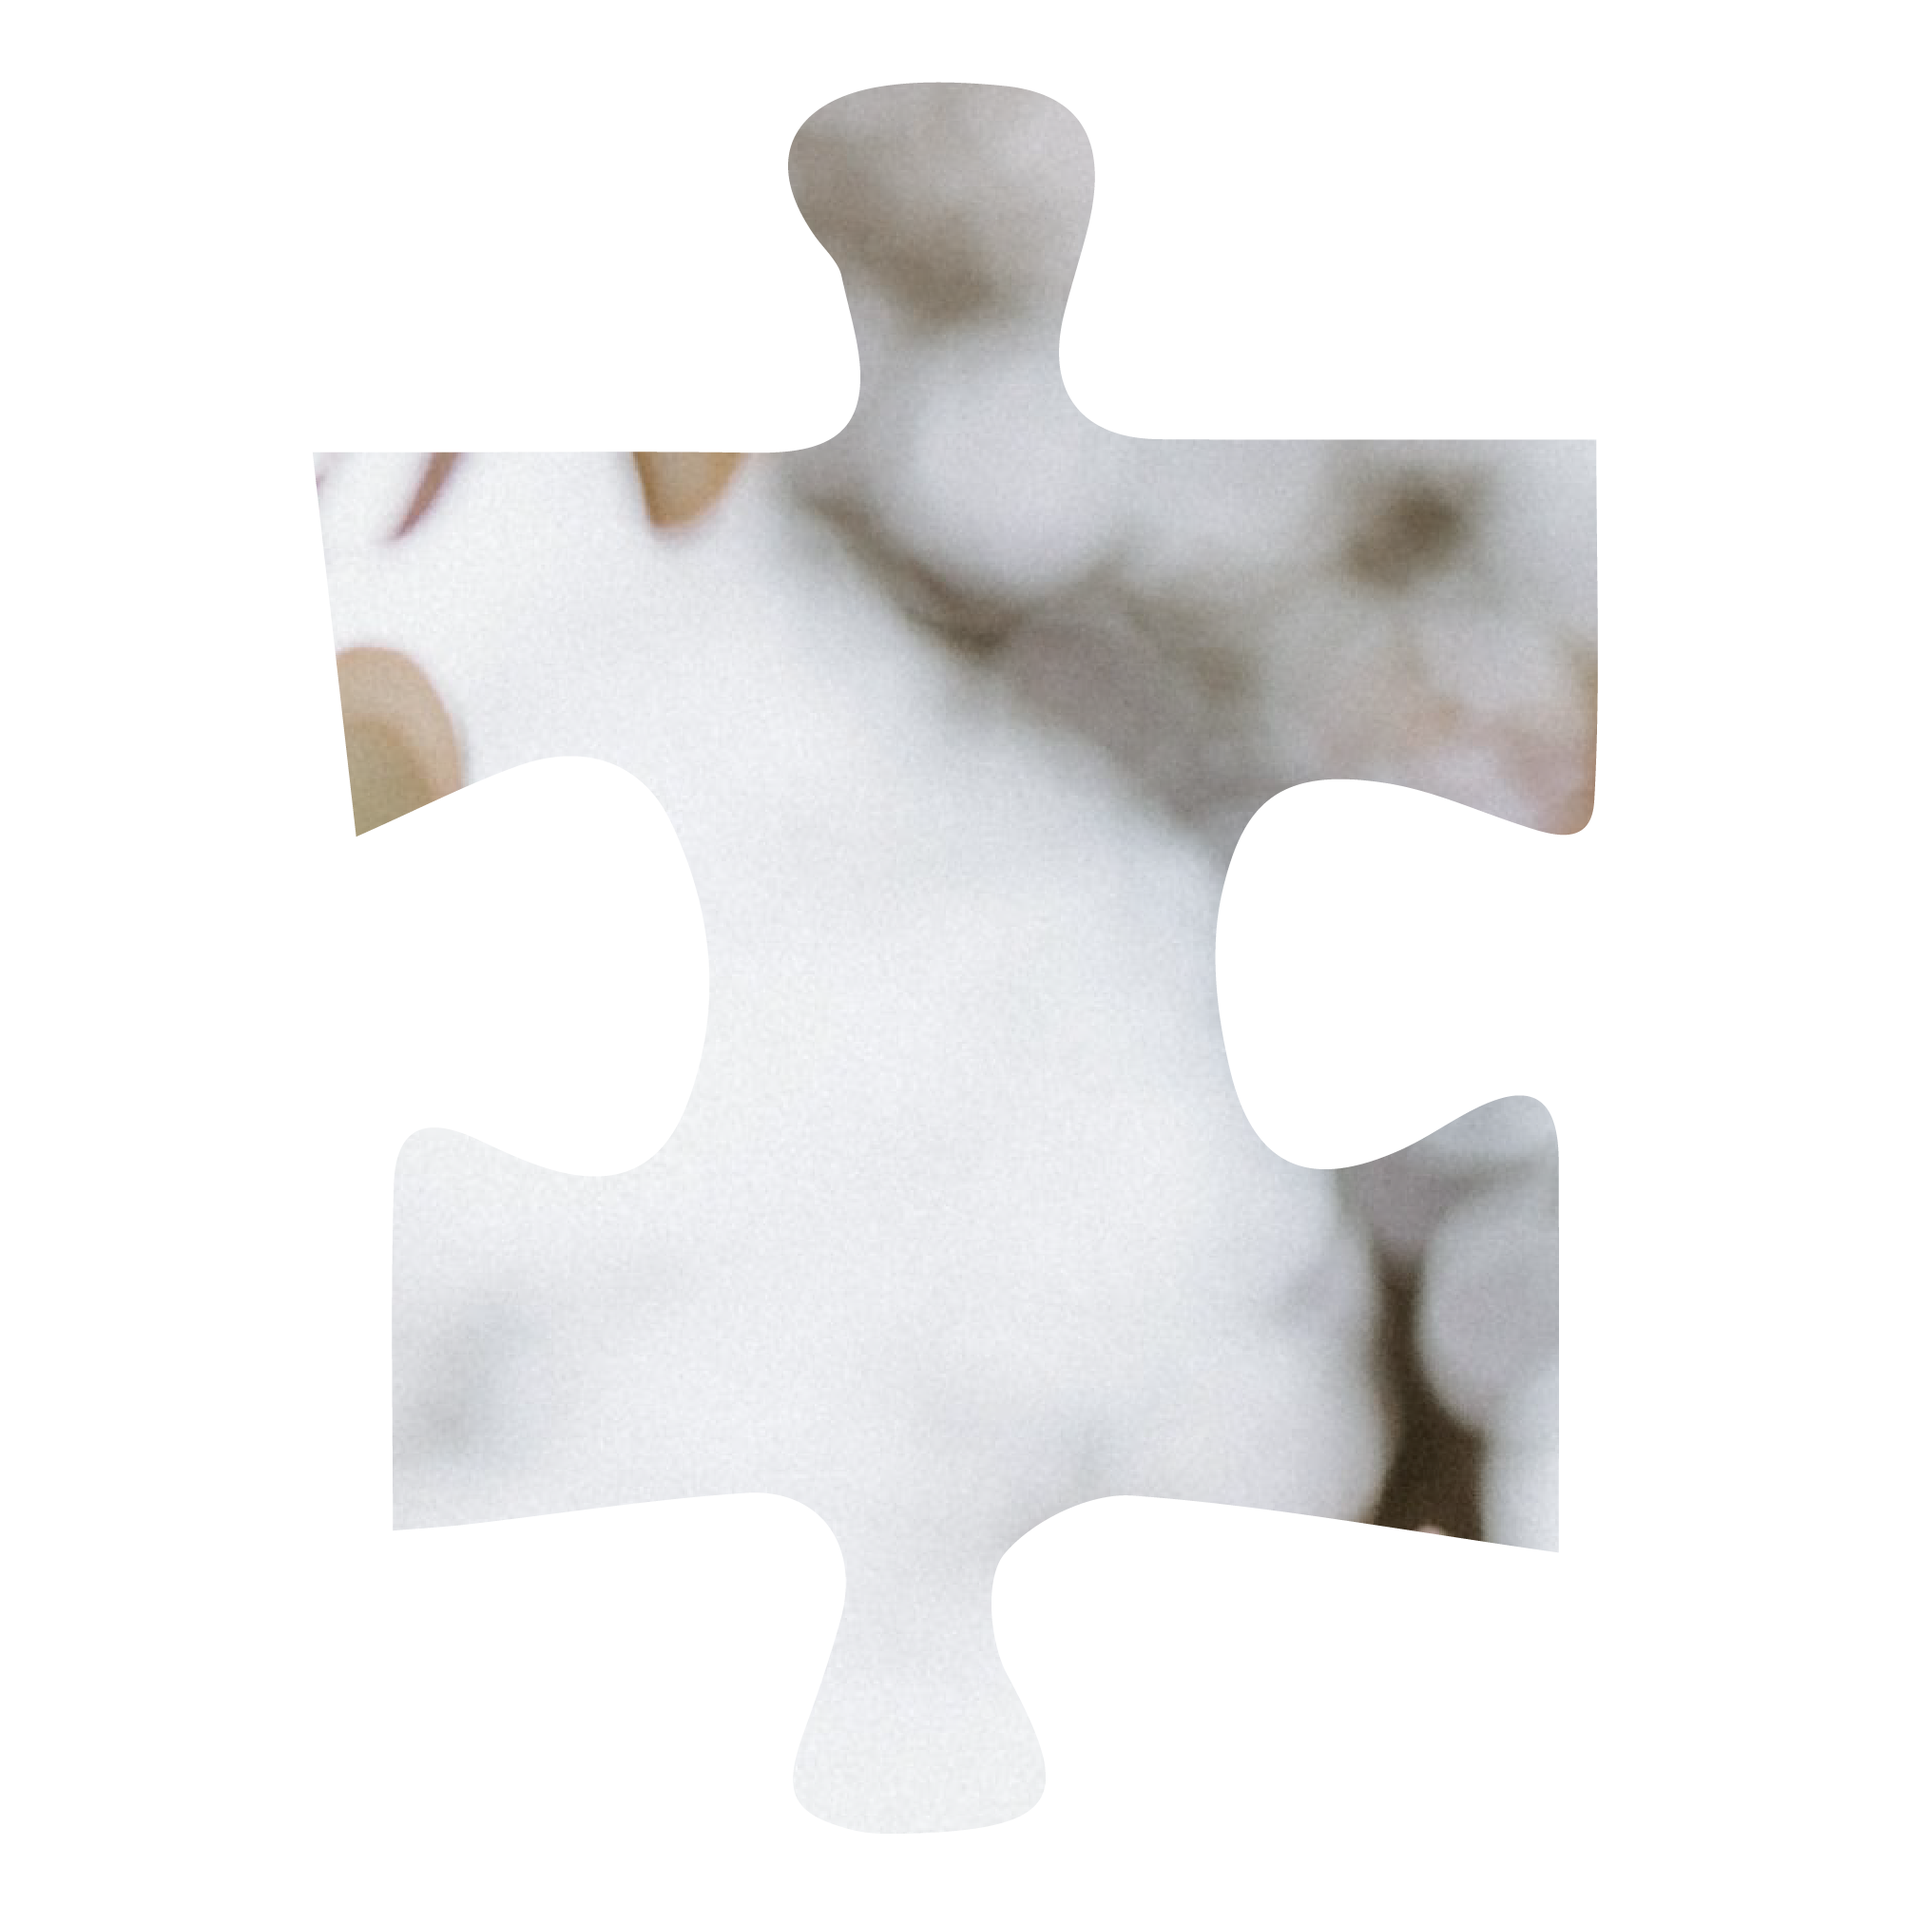
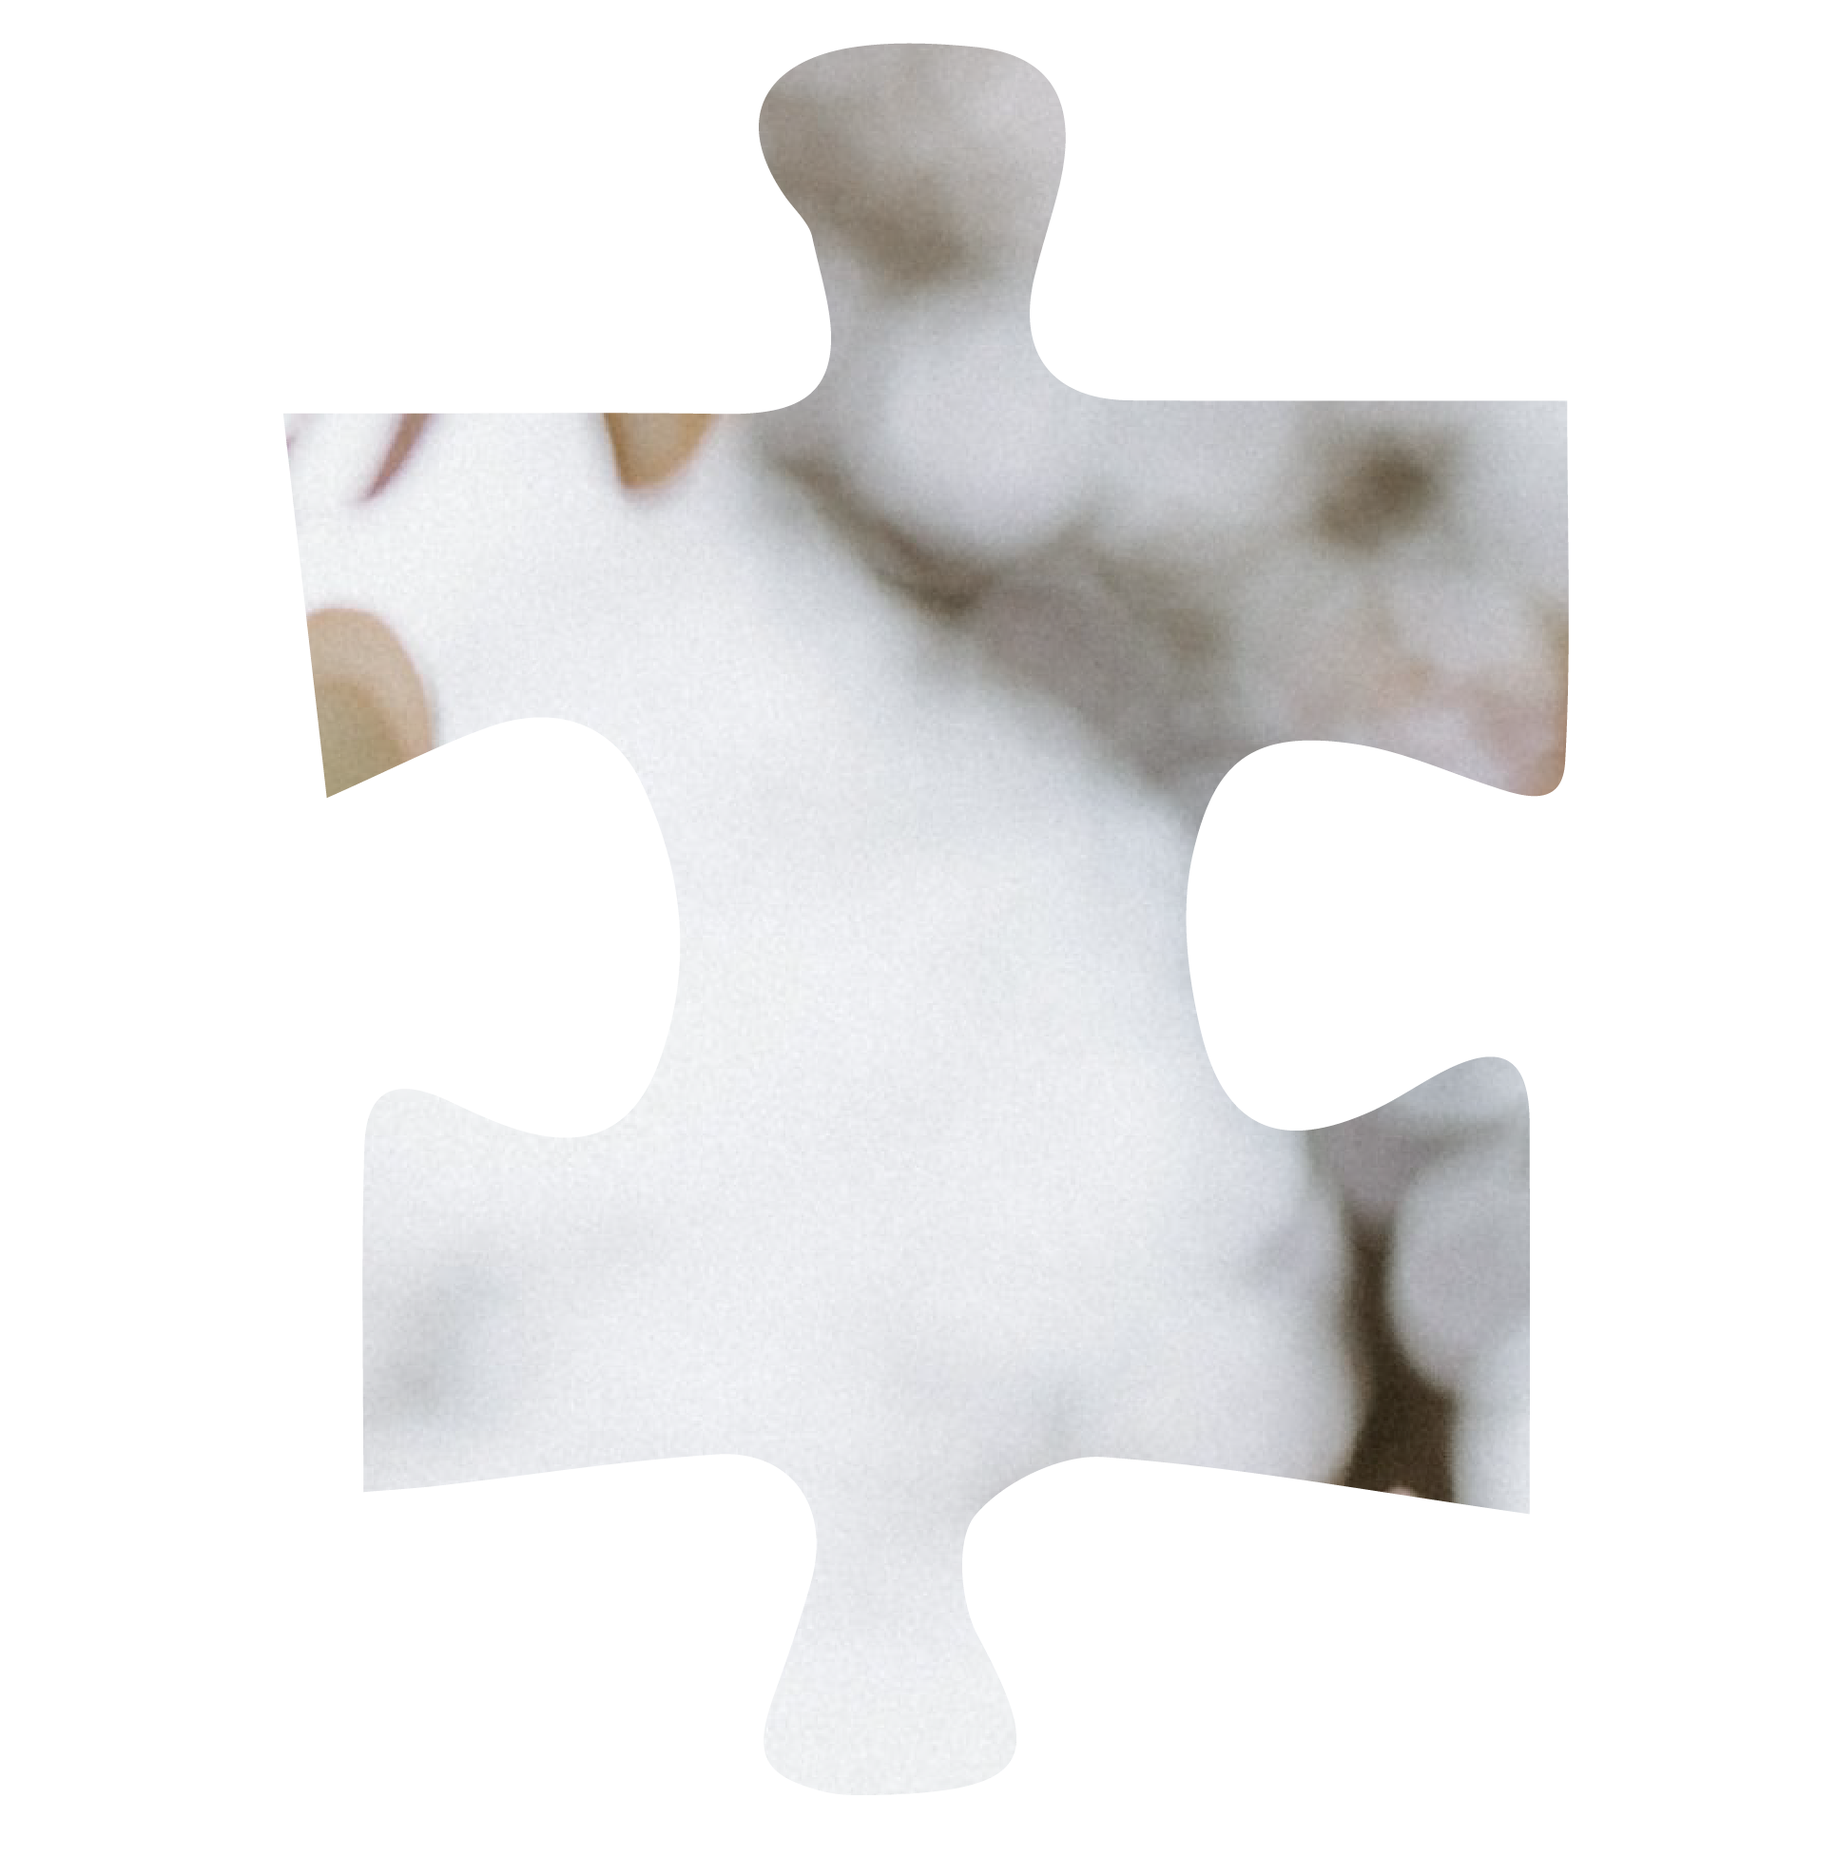
P3: Made the puzzle pieces fill their spot + Defined pieces and spots ids + made the puzzle appears, once all the pieces were dropped to the puzzle board

diff --git a/Projects/project-3/js/script.js b/Projects/project-3/js/script.js
@@ -70,8 +70,8 @@ function pieces(data) {
     li = $('<li></li>').addClass(`slide${i}`).addClass("slideC").appendTo('.content-slider');
     let imgAddress = data.puzzles.firstPuzzle.puzzlePieces[i];
     puzzlePiece = $('<img>').addClass(`piece${i}Img`).css({
-      "width": "8vw",
-      "padding": "8px"
+      "width": "6vw",
+      "padding": "14px"
     }).attr('src', `${imgAddress}`).appendTo(`.slide${i}`);
 
     // Makes the piece draggable
@@ -112,7 +112,7 @@ function spotsToPositionPieces(data) {
         src: `${image}`
       }).css({
         "width": "100%",
-        "opacity": "0.1"
+        "opacity": "0"
       }).appendTo(`#spotToPosition${i}`);
 
       // Makes the spot droppable
@@ -132,9 +132,6 @@ function spotsToPositionPieces(data) {
 function onDrop(event, ui) {
   // If the spot has not been already filled...
   if (!($(this).hasClass("dropped"))) {
-    // Gets the spot id
-    let itemId = $(this).attr("id");
-    console.log(itemId);
 
     // Adds "dropped" class so that this spot can't be filled again
     $(this).addClass("dropped");
@@ -148,23 +145,22 @@ function onDrop(event, ui) {
       piecesInSlide.splice(indexToRemove, 1);
       // SABINE EDIT END.
 
-      // If the spot id is single digit, takes only the last charater of the id
-      // Else, takes the last two character
-      let spotId;
-      if (itemId.length < 16) {
-        spotId = itemId.charAt(itemId.length - 1);
-      } else if (itemId.length > 15) {
-        spotId = itemId.substring(itemId.length - 2, itemId.length);
-      }
+
+      // Gets the spot id, Gets the piece first class
+      // Finds the digit embeded in the spot and the piece + assigns them to variables
+      let itemId = $(this).attr("id");
+      let setSpotId = findSpotId(itemId);
+      let droppedPieceFirstClass = $(ui.draggable[0]).attr("class").split(' ')[0];
+      let setPieceId = findPieceId(droppedPieceFirstClass);
 
       // SABINE EDITS START:
       // Makes a copy ..
       // Removes the other ...
-      let droppedOne = $('<img>').addClass(`droppedPiece${spotId}`).css({
-        "width": "100%"
-      }).attr('src', ui.draggable[0].src).appendTo($(this));
-      console.log((ui.draggable[0]).src);
-      $(`.hidingLayer${spotId}`).remove();
+      let droppedOne = $('<img>').addClass(`droppedPiece${setSpotId}`).css({
+        "width": "100%",
+        "opacity": "0"
+      }).attr({id:`piece${setPieceId}Img`, src:`${ui.draggable[0].src}`}).appendTo($(this));
+      $(`.hidingLayer${setSpotId}`).remove();
 
       // Removes everyone up ...
       $(ui.draggable[0]).parent().remove();
@@ -175,6 +171,11 @@ function onDrop(event, ui) {
       // SHOWS THE FIRST FOUR ..
       for (let j = 0; j <= 3; j++) {
         $(slides[j]).show();
+      }
+
+      // Once all the pieces were dropped to the empty spots prompts the function
+      if (piecesInSlide.length === 24) {
+        makePuzzleFullSize();
       }
     }
   } else {
@@ -223,6 +224,56 @@ function goPrev() {
   $(slides[0]).html(piecesInSlide[0]);
 }
 
+// makePuzzleFullSize()
+//
+// Removes the slider column, reveal the pieces dropped to the puzzle board
+// checks the piece arrangment. If true display victory screen, else displays game over screen
+function makePuzzleFullSize() {
+  let numPiecesFadeIn = 0;
+  let totalNumPiecesFadeIn = 5;
+  let fadeTime = 100;
+
+  // Removes light slider column
+    $('.columnToRemove').remove();
+    $('.column').css({
+      "width": "100%",
+      "float": "none"
+    });
+    // Makes the rows of pieces fade in with delay
+    for (var i = 1; i < 2; i++) {
+      $(`.row${i}`).css({
+        "margin-left": "7.5vw"
+      });
+      for (var j = numPiecesFadeIn; j <= totalNumPiecesFadeIn; j++) {
+        $(`.droppedPiece${j}`).fadeTo( fadeTime , 1 );
+      }
+      numPiecesFadeIn += 6;
+      totalNumPiecesFadeIn += 6;
+      fadeTime += 700;
+    }
+    // Prompts checkPuzzleArrangement function
+    checkPuzzleArrangement();
+}
+
+// checkPuzzleArrangement()
+//
+// Checks whether the pieces are placed in the right position or not
+function checkPuzzleArrangement() {
+  for (var p = 0; p < 6; p++) {
+    let getSpotId = `spotToPosition${p}`;
+    let checkSpotId = findSpotId(getSpotId);
+    let getPieceId = $(`.droppedPiece${p}`).attr("id");
+    let checkPieceId = findPieceId(getPieceId);
+
+    // Compare the spot and the piece ids.
+    // If all of them are the same, displayes victory screen, else gameOver screen
+    if (checkSpotId === checkPieceId) {
+      // gameOver();
+      console.log("in correct spot " + checkPieceId);
+    }
+  }
+}
+
 // dataError()
 //
 // If there is an error...
@@ -242,4 +293,30 @@ function findArrayIndex(obj, list) {
     }
   }
   return -1;
+}
+
+// findSpotId()
+//
+// Finds the digit placed in the spot id name in order to be used as the spot id
+function findSpotId(itemId) {
+  let spotId;
+  if (itemId.length < 16) {
+    spotId = itemId.charAt(itemId.length - 1);
+  } else if (itemId.length > 15) {
+    spotId = itemId.substring(itemId.length - 2, itemId.length);
+  }
+  return spotId;
+}
+
+// findSpotId()
+//
+// Finds the digit placed in the piece class name in order to be used as the piece id
+function findPieceId(pieceId) {
+  let droppedPieceId;
+  if (pieceId.length < 16) {
+    droppedPieceId = pieceId.charAt(5);
+  } else if (pieceId.length > 15) {
+    droppedPieceId = pieceId.substring(5, pieceId.length-3);
+  }
+  return droppedPieceId;
 }

diff --git a/Projects/project-3/index.html b/Projects/project-3/index.html
@@ -44,10 +44,10 @@ A webpage that randomly generates descriptions of condiments.
       <div class="row">
         <div class="column" style="width: 80%;">
         <div class="row1">
-          <div class="rowProperties" id="spotToPosition5" style="margin-left: 5.5vw; margin-top: 2.9vw; width: 10.5vw;"></div>
-          <div class="rowProperties" id="spotToPosition4" style="margin-left: -3.3vw; margin-top: 2.85vw; width: 10vw;"></div>
-          <div class="rowProperties" id="spotToPosition3" style="margin-left: -3.4vw; margin-top: 1.85vw; width: 13vw;"></div>
-          <div class="rowProperties" id="spotToPosition2" style="margin-left: -2.9vw; margin-top: 3vw; width: 9.2vw;"></div>
+          <div class="rowProperties" id="spotToPosition5" style="margin-left: 5.6vw; margin-top: 2.9vw; width: 10.5vw;"></div>
+          <div class="rowProperties" id="spotToPosition4" style="margin-left: -3.4vw; margin-top: 2.85vw; width: 10vw;"></div>
+          <div class="rowProperties" id="spotToPosition3" style="margin-left: -3.35vw; margin-top: 1.85vw; width: 13vw;"></div>
+          <div class="rowProperties" id="spotToPosition2" style="margin-left: -2.9vw; margin-top: 2.9vw; width: 9.2vw;"></div>
           <div class="rowProperties" id="spotToPosition1" style="margin-left: -2.8vw; margin-top: 2.6vw; width: 13.5vw;"></div>
           <div class="rowProperties" id="spotToPosition0" style="margin-left: -3.4vw; margin-top: 3vw; width: 9vw;"></div>
         </div>
@@ -86,7 +86,7 @@ A webpage that randomly generates descriptions of condiments.
           <div class="rowProperties" id="spotToPosition24" style="margin-left: -2.9vw; margin-top: -0.45vw; width: 9.1vw;"></div>
         </div>
         </div>
-        <div class="column" style="width: 20%;">
+        <div class="column columnToRemove" style="width: 20%;">
           <div class="item">
         </div>
       </div>

diff --git a/Projects/project-3/css/style.css b/Projects/project-3/css/style.css
@@ -30,12 +30,10 @@ body {
   z-index: 0;
 }
 
-.row2, .row4, .row5{
+.row2, .row3, .row4, .row5{
   margin-top: -4.8vw;
 }
-.row3 {
-  margin-top: -4.7vw;
-}
+ 
 .rowProperties {
     width:10vw;
     float:left;
@@ -101,7 +99,7 @@ body {
 
 .item {
   display: table;
-  margin-top: -0.6vw;
+  margin-top: 1.5vw;
   left: 0;
   right: 0;
   bottom: 0;
